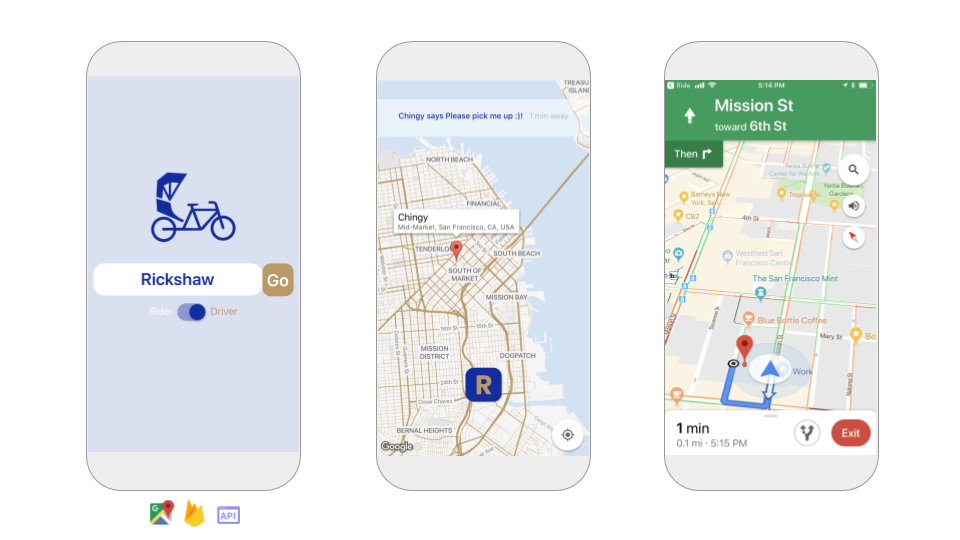
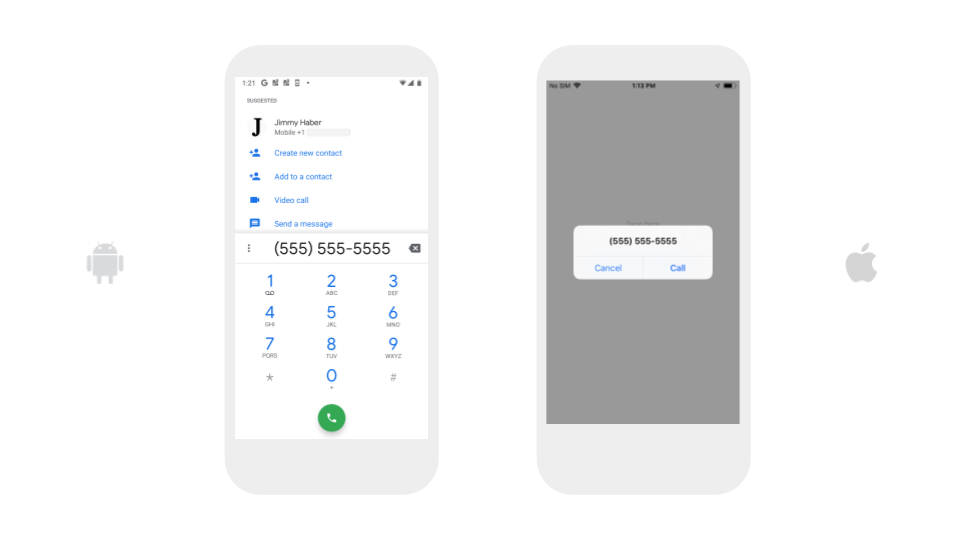
GitBook: [master] 3 pages and 2 assets modified

diff --git a/thunkable-cross-platform/release-notes.md b/thunkable-cross-platform/release-notes.md
@@ -7,6 +7,28 @@ New components
 * Blockchain powered by Oasis Labs
 * Ads powered by AdMob
 * Bluetooth Low Energy
+* Push Notifications
+* Canvas and Sprites
+
+Block updates
+
+* [Variables](create/blocks/variables.md) - added a [change listener to app and stored variables](create/blocks/variables.md#for-app-and-stored-variables-updating-when-the-variable-initializes-or-changes)
+
+Bug fixes
+
+* Fix bug that causes random block to not work in the variable initialization block
+
+## Feb 11, 2019
+
+Platform updates
+
+* Updated default Splash Screen to new 2019 logo and branding "Made with Thunkable" 
+
+## Jan 31, 2019
+
+Platform updates
+
+* Downloaded and published apps are now ~8MB smaller than before
 
 Component updates
 
@@ -15,12 +37,7 @@ Component updates
 
 Block updates
 
-* [Variables](create/blocks/variables.md) - added a [change listener to app and stored variables](create/blocks/variables.md#for-app-and-stored-variables-updating-when-the-variable-initializes-or-changes)
 * [Color](create/blocks/colour.md) - added the ability to [set color by Hue, Saturation and Value](create/blocks/colour.md#set-hsv-color)
-
-Bug fixes
-
-* Fix bug that causes random block to not work in the variable initialization block
 
 ## Dec 14, 2018
 

diff --git a/thunkable-cross-platform/create/components/social/share.md b/thunkable-cross-platform/create/components/social/share.md
@@ -18,7 +18,7 @@ Sharing is caring and the Share component enables users to use the default apps 
 
 ## Make a phone call
 
-![The screenshots above are from a Pixel 3 and an iPhone 7](../../../../.gitbook/assets/thunkable-docs-exhibits-89.png)
+![The screenshots above are from a Pixel 3 and an iPhone 7](../../../../.gitbook/assets/thunkable-docs-exhibits.png)
 
 ![](../../../../.gitbook/assets/screen-shot-2018-12-13-at-12.05.03-pm.png)
 

diff --git a/thunkable-classic-android/release-notes.md b/thunkable-classic-android/release-notes.md
@@ -1,5 +1,22 @@
 # Release Notes
 
+## Feb 8, 2019
+
+Component updates
+
+* AdMob - fixed bug where ads show up in Live Testing but not in Downloaded app
+
+## Jan 17, 2019
+
+Platform updates
+
+* Added link to download .apk from Export Barcode page
+* Fixed bug preventing some apps from building
+
+Component updates
+
+* Label - fixed bug that prevented Live Testing when using line breaks
+
 ## Jan 6, 2019
 
 Component updates
